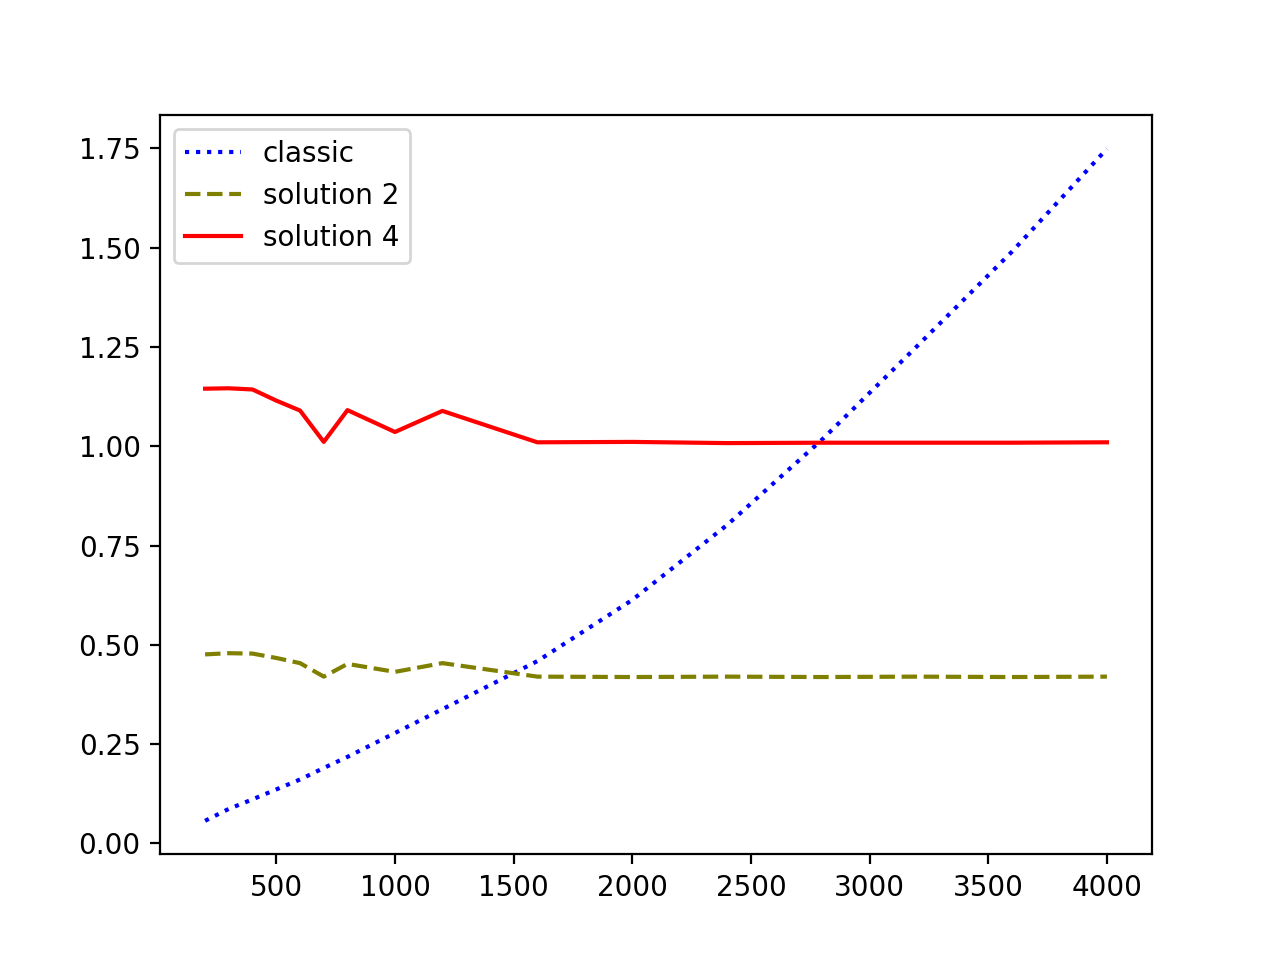
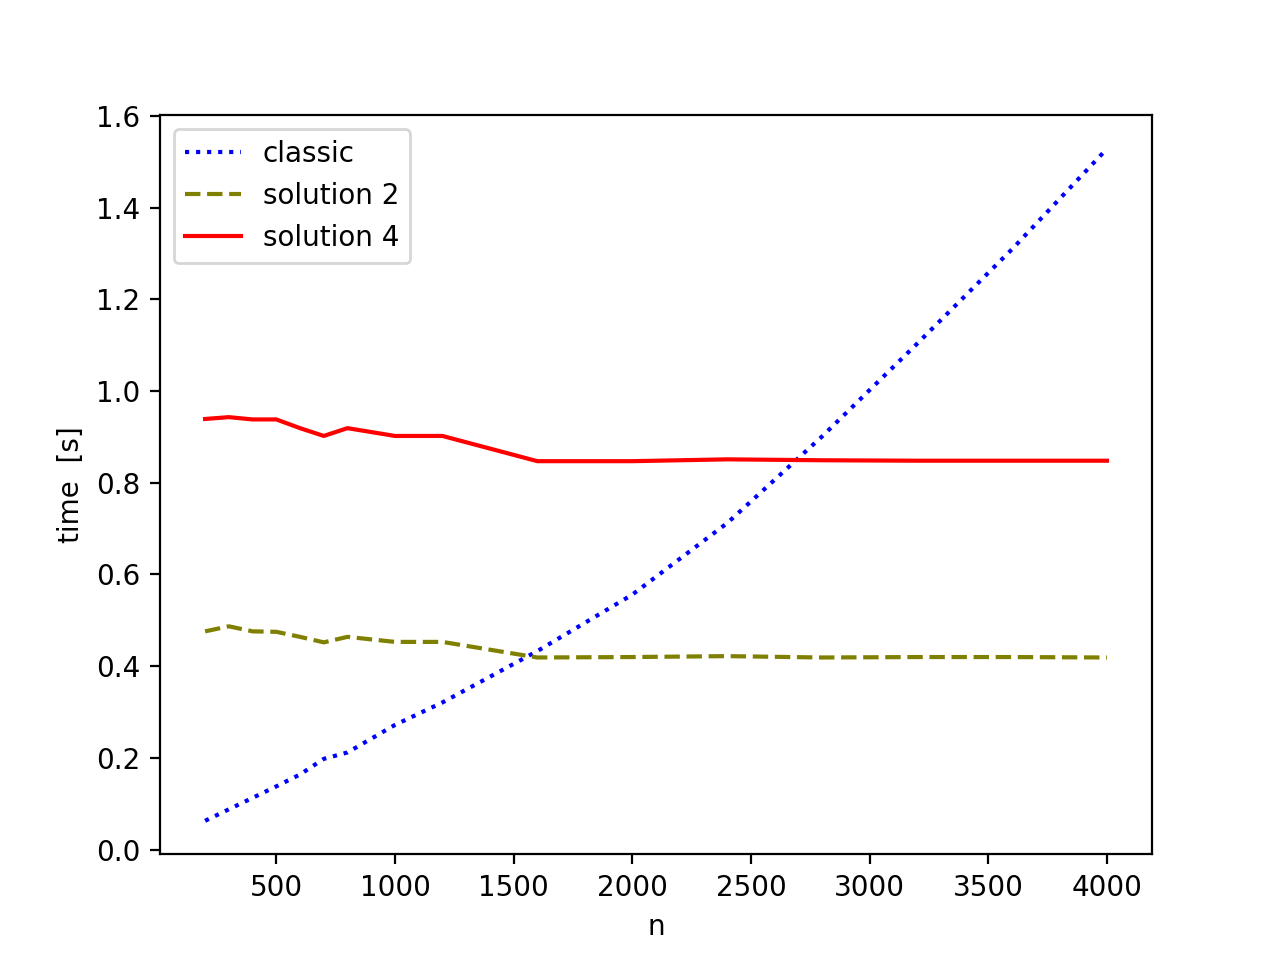
added solution 2 vs 4 plot, optimized solution 4

diff --git a/benchmark.cpp b/benchmark.cpp
@@ -25,21 +25,21 @@ typedef pair<vector<int>,int> Test;
 double measure(coinFunc solution, Test test) {
     double res = 0;
     auto start = chrono::high_resolution_clock::now();
-    solution(test.first,test.second);
+    int x = solution(test.first,test.second);
     auto delta = chrono::high_resolution_clock::now() - start;
     return std::chrono::duration_cast<std::chrono::milliseconds>(delta).count();
 }
 
 
 template<class T>
-void save_to_csv(const string& name, const vector<T>& xPoints, const vector<pair<string,coinFunc> >& solutions, const vector<vector<double> >& times, const string& saveDirectory) {
+void save_to_csv(const string& name, const vector<T>& xPoints, const string& xPointsLabel, const vector<pair<string,coinFunc> >& solutions, const vector<vector<double> >& times, const string& saveDirectory) {
     ofstream out;
     out.open(saveDirectory + name + ".csv");
     if(out.bad()) {
         cerr<<"file opening failed"<<endl;
         exit(1);
     }
-    out<<"name";
+    out<<xPointsLabel;
     out.precision(3);
     for(auto x :xPoints) 
         out<<", "<<x;
@@ -82,7 +82,7 @@ void tAndTime(int runs, string saveDirectory) {
             test_index++;
         }
     }
-    save_to_csv("t_time",ts,solutions,times, saveDirectory);
+    save_to_csv("t_time",ts,"t",solutions,times, saveDirectory);
 }
 
 void smallUvsClassic(int runs, string saveDirectory) {
@@ -108,7 +108,7 @@ void smallUvsClassic(int runs, string saveDirectory) {
             test_index++;
         }
     }
-    save_to_csv("smallu_classic",us,solutions,times, saveDirectory);
+    save_to_csv("smallu_classic",us,"u",solutions,times, saveDirectory);
 }
 
 void smallUSingleTargetVsSol(int runs, string saveDirectory) {
@@ -138,7 +138,7 @@ void smallUSingleTargetVsSol(int runs, string saveDirectory) {
             test_index++;
         }
     }
-    save_to_csv("smallusingletarget_sol",usFractions,solutions,times, saveDirectory);
+    save_to_csv("smallusingletarget_sol",usFractions,"u/t",solutions,times, saveDirectory);
 }
 
 void nAndTime(int runs, string saveDirectory) {
@@ -167,7 +167,35 @@ void nAndTime(int runs, string saveDirectory) {
             test_index++;
         }
     }
-    save_to_csv("n_time",ns,solutions,times, saveDirectory);
+    save_to_csv("n_time",ns,"n",solutions,times, saveDirectory);
+}
+
+void sol2Vs4OnBigAnswerTests(int runs, string saveDirectory) {
+    cerr<<"preparing data for sol 2 vs sol 4"<<endl;
+    const vector<pair<string,coinFunc> > solutions = {
+        {"solution 2", solution2::getMinimumCoinNumberFor},
+        {"solution 4", solution4::getMinimumCoinNumberFor},
+    };
+    
+    vector<int> logW(20);
+    iota(logW.begin(), logW.end(),1);
+
+    vector<vector<double> > times(solutions.size(), vector<double>(logW.size()));
+    for(int run=0;run < runs; run++) {
+        vector<Test> tests;
+        int test_index = 0;
+        for(auto l : logW) {
+            int M = (1<<(20-l));
+            auto test = testGenerators::randomTest(M,1,M, (1<<19)+5, (1<<20)-5);
+            int solution_index = 0;
+            for(auto nameAndSolution : solutions) {
+                times[solution_index][test_index] += measure(nameAndSolution.second,test)/runs;
+                solution_index++;
+            }
+            test_index++;
+        }
+    }
+    save_to_csv("sol2_vs_4_big_answer",logW,"lg(w)",solutions,times, saveDirectory);
 }
 
 int main(int argc, char** argv) {
@@ -177,6 +205,7 @@ int main(int argc, char** argv) {
     string saveDirectory = "data/";
     if(argc >= 3)
         saveDirectory = string(argv[2]);
+    sol2Vs4OnBigAnswerTests(runs, saveDirectory);
     tAndTime(runs,saveDirectory);
     smallUvsClassic(runs,saveDirectory);
     smallUSingleTargetVsSol(runs,saveDirectory);

diff --git a/run.py b/run.py
@@ -60,18 +60,18 @@ def compile_solutions():
             retry = False
 
 compile_solutions()
-exit_code = printAndRunCommand(os.path.join(directory,'test_correctness') )
+"""exit_code = printAndRunCommand(os.path.join(directory,'test_correctness') )
 if exit_code != 0:
     print("some testcases failed!")
     exit(0)
-printAndRunCommand(os.path.join(directory,'benchmark')+ ' 10 '+ os.path.join(directory,'data',''))
+printAndRunCommand(os.path.join(directory,'benchmark')+ ' 10 '+ os.path.join(directory,'data',''))"""
 
 import pandas as pd
 import matplotlib.pyplot as plt
 
 def plotFromFile(name):
     df = pd.read_csv(os.path.join(directory,'data',name+'.csv'))
-    xs = [float(x) for x in df.columns if x != 'name']
+    xs = [float(x) for x in df.columns[1:]]
     labelToStyle = {
         'classic': ('blue',':'),
         'solution 1': ('orange',':'),
@@ -83,11 +83,14 @@ def plotFromFile(name):
     }
     for i, row in df.iterrows():
         ys = [float(x) for x in row[1:]]
-        plt.plot(xs,ys,label=row['name'],color=labelToStyle[row['name']][0], linestyle=labelToStyle[row['name']][1])
+        plt.plot(xs,ys,label=row.iloc[0],color=labelToStyle[row.iloc[0]][0], linestyle=labelToStyle[row.iloc[0]][1])
+    plt.xlabel(df.columns[0])
+    plt.ylabel('time  [s]')
     plt.legend()
     plt.savefig(os.path.join(directory,'data','plot_'+str(name)+'.png'),dpi=200)
     plt.clf()
 
+plotFromFile('sol2_vs_4_big_answer')
 plotFromFile('t_time')
 plotFromFile('smallu_classic')
 plotFromFile('smallusingletarget_sol')

diff --git a/src/solution4.h b/src/solution4.h
@@ -35,7 +35,7 @@ namespace solution4 {
         //at this point, C = solution3::getAllChangesUsingAtMost((1<<l),coins,t);
         int res = (1<<l);
         int indexShift = 0;
-        for(int i=l;i>=0;i--) {
+        for(int i=l-1;i>=0;i--) {
             if(i < l-1) {
                 std::vector<int> C2((t>>(l-i-1))+1);
                 for(int j=0;j<C2.size();j++)
